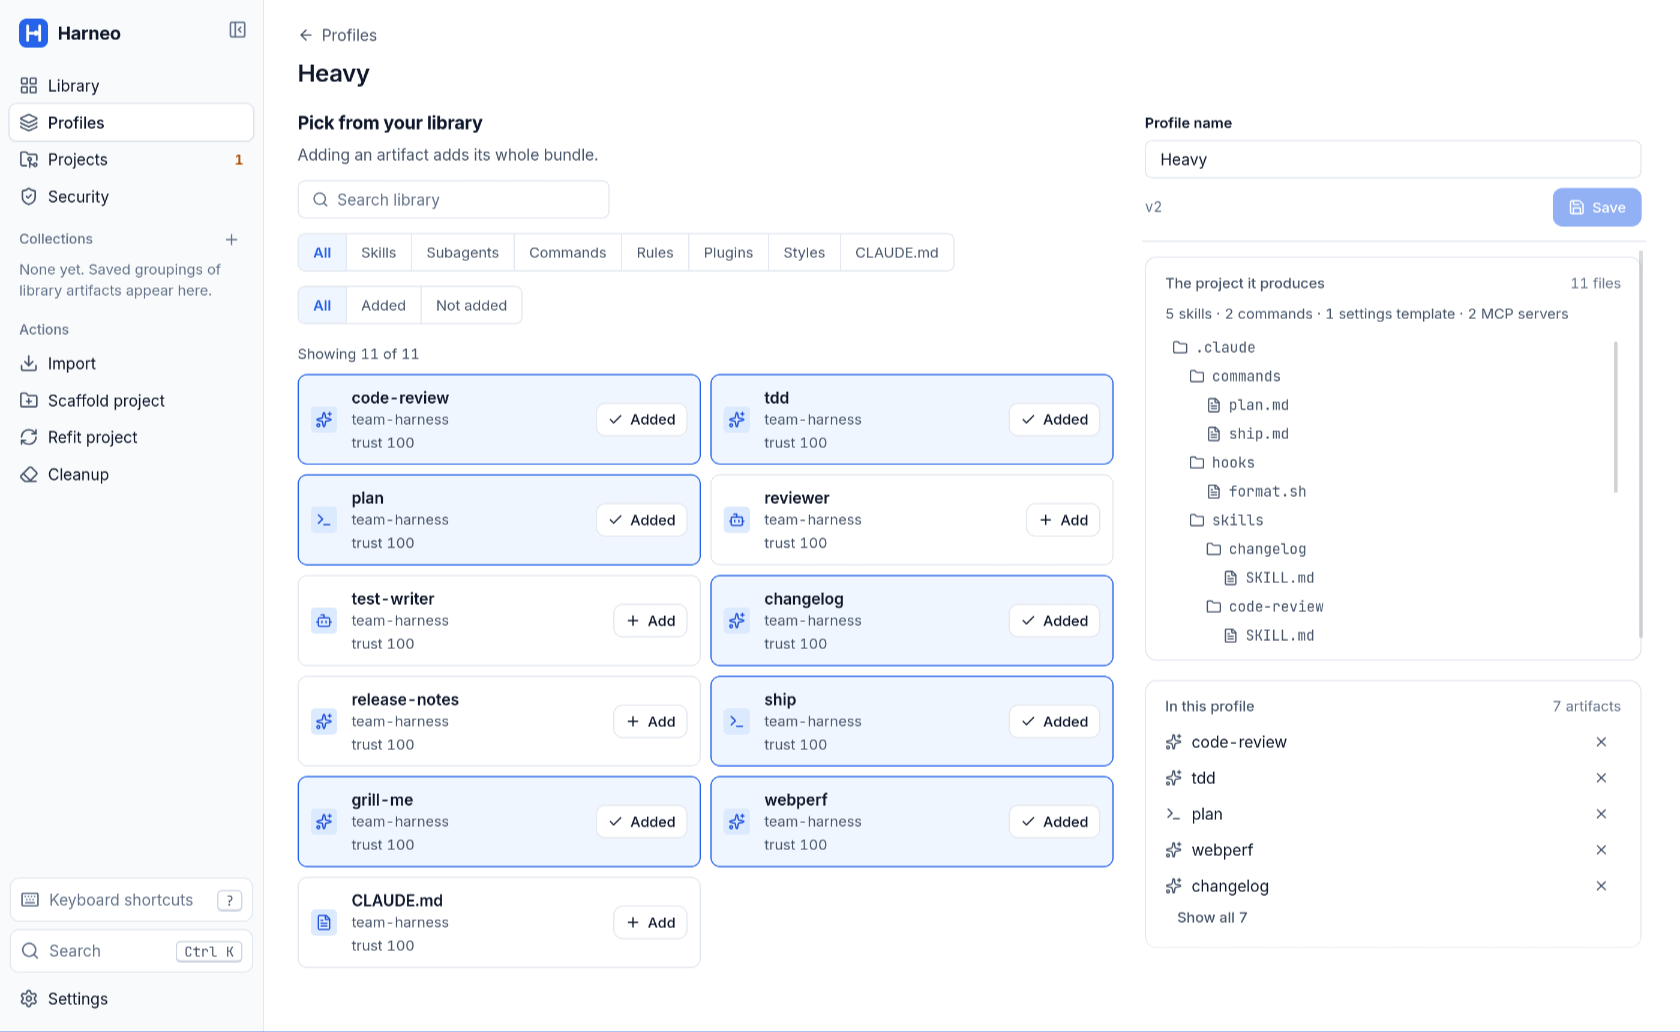
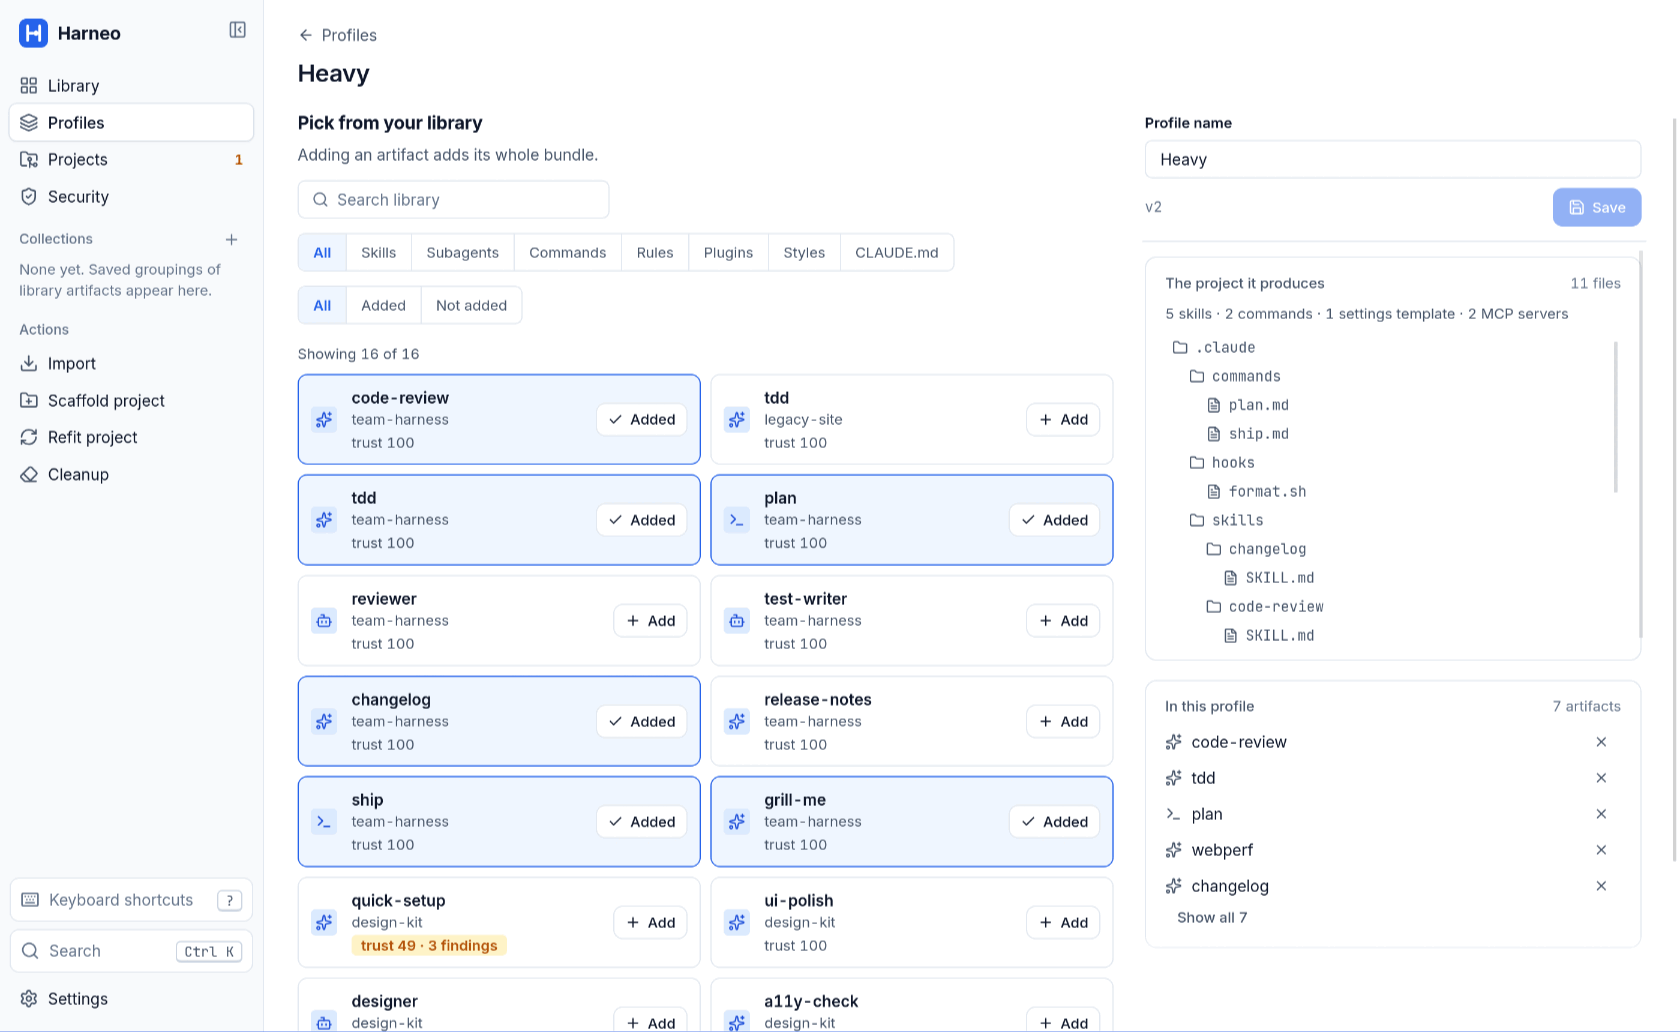
README: Security and Cleanup screenshots, all shots from one dummy library (#149)

diff --git a/README.md b/README.md
@@ -33,7 +33,9 @@ To update, `git pull` and run the two build commands again. To just try the app 
 
    ![Import: the audit holds back a skill that pipes a download into a shell](docs/screenshots/import.png)
 
-2. **Library.** Browse what you imported by type, bundle or source, with tags, collections, usage and an *outdated* flag. Only what you imported is there.
+2. **Library.** Browse what you imported by type, bundle or source, with tags, collections, usage and an *outdated* flag. Only what you imported is there. **Security** sums up the audit: trust scores, findings by severity, and what each artifact can reach (network, shell, environment variables, files).
+
+   ![Security: trust scores, findings and what each artifact can reach](docs/screenshots/security.png)
 3. **Profiles.** Pick artifacts (and their bundles), one Settings template and MCP servers to make a profile. Clone it to make a lighter or heavier one; export it as one file to share.
 
    ![A profile: pick from the library and see the files it will produce](docs/screenshots/profile.png)
@@ -49,6 +51,8 @@ To update, `git pull` and run the two build commands again. To just try the app 
    ![Projects: each registered project with its profile and drift](docs/screenshots/projects.png)
 
    ![Drift: a local edit in a project, with re-apply or promote to library](docs/screenshots/drift.png)
+
+   ![Cleanup: risky, unused, repeated and duplicate artifacts, each with a fix](docs/screenshots/cleanup.png)
 
 The screenshots use dummy data.
 

diff --git a/WORKFLOW.md b/WORKFLOW.md
@@ -43,3 +43,4 @@ How Harneo is built with Addy Osmani's agent-skills and Impeccable: one line per
 39. Independent reviews (user's request): `code-reviewer` on install-engine and on drift/updates/bundles/usage, `security-auditor` on the whole app; 5 high, ~10 medium, ~12 low findings, several proven with probe tests → issues #139–#145, all merged in batches (removal restores every original, profile-file import can't bypass the audit, updates respect promoted/kept content, robust usage/drift, file modes and Windows paths, backend-held plans and paths, hardened git and secret defaults)
 40. `ticket-flow` small change #146: README install section (setup, release builds, binaries on the PATH) and a short how-to-use guide for the app and the CLI → `README.md`
 41. `ticket-flow` #147: README screenshots from the release app run against a throwaway, namespaced sandbox (dummy library, Light/Heavy profiles, three projects, fake session logs), driven by keyboard; the skip-link bug found on the way → `docs/screenshots/`, `README.md`, issue #148
+42. `ticket-flow` #148 and #149: skip link keeps the hash route and focuses main (test first); sandbox re-seeded (risky skill, backdated imports, third profile, duplicate tdd) and every screenshot retaken, Security and Cleanup added → `src/app/Layout.tsx`, `docs/screenshots/`, `README.md`
